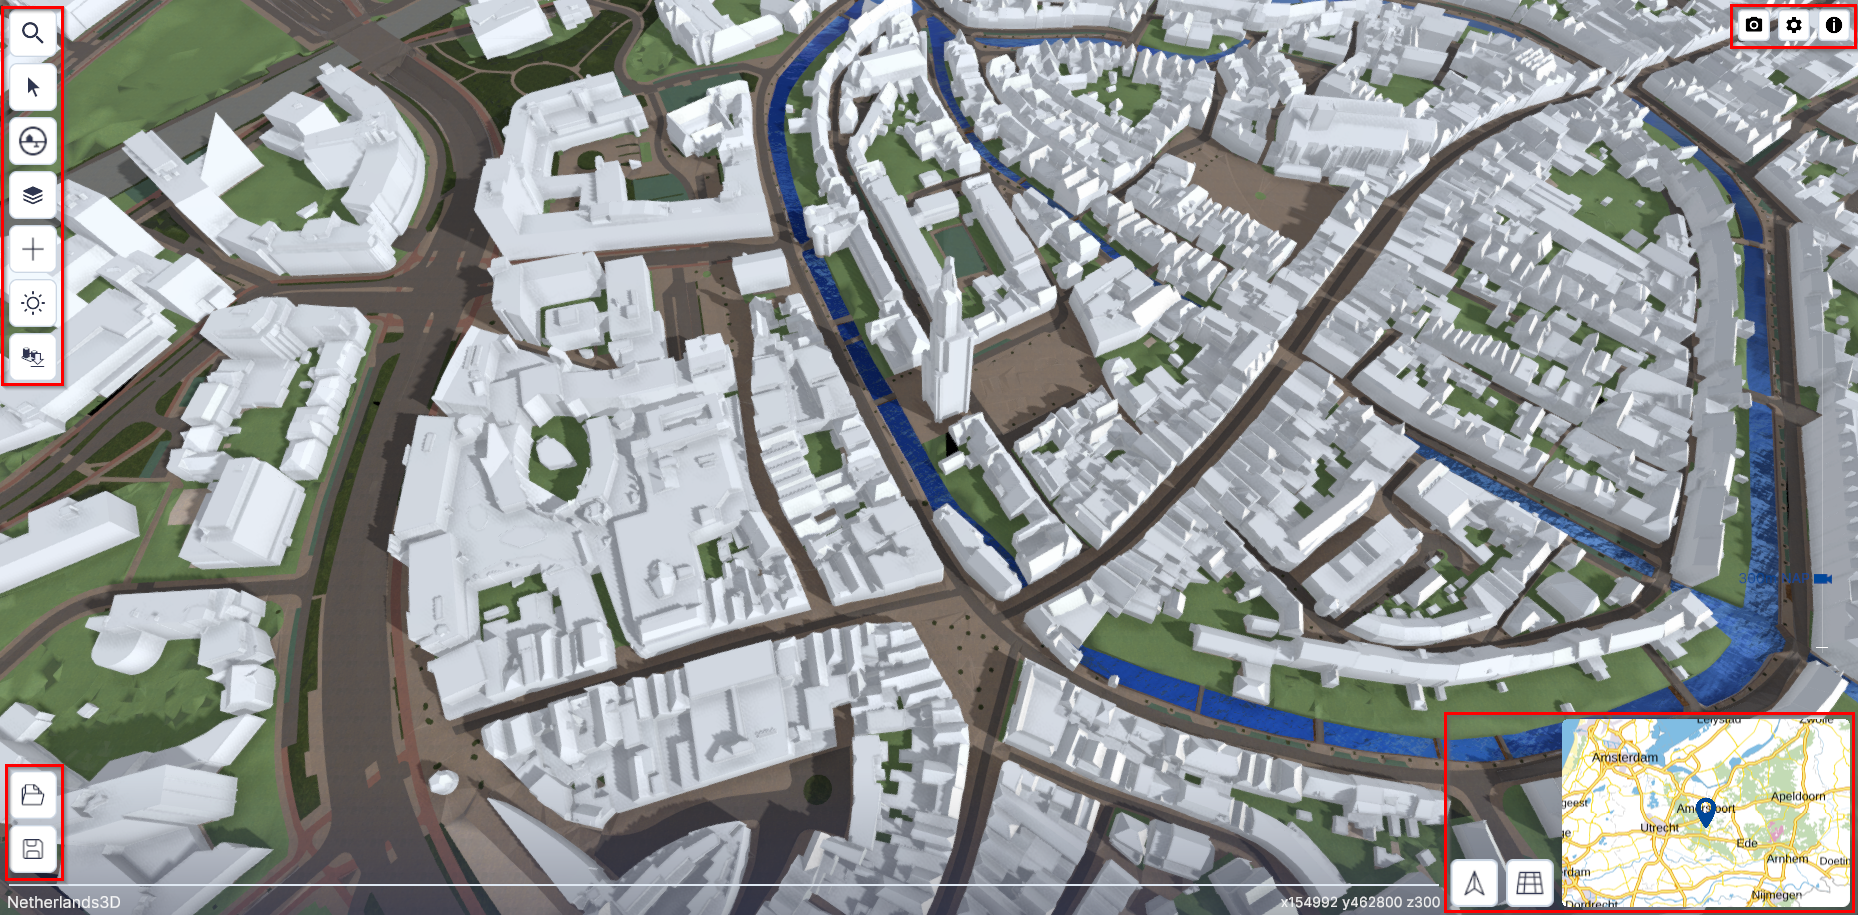
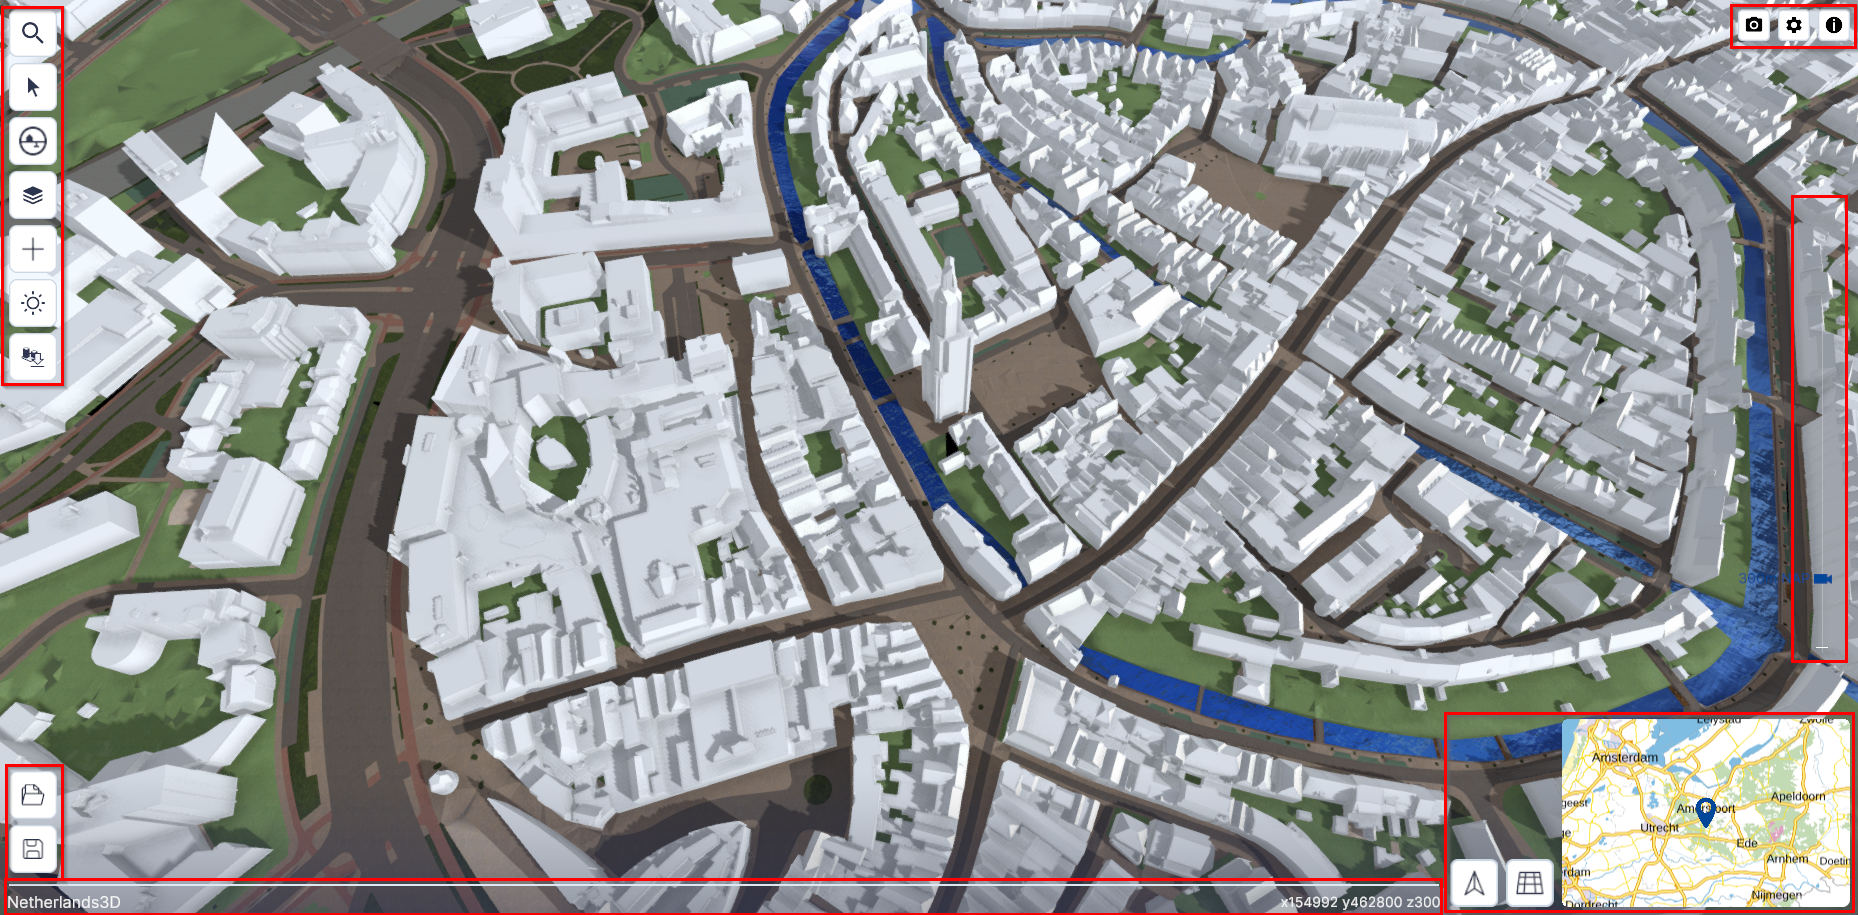
improvements

Changed region(s): [[0.0, 0.9486, 0.7804, 1.0], [0.9677, 0.7038, 0.9989, 0.7344], [0.9677, 0.2142, 0.9989, 0.2448]]

diff --git a/docs/docs/handleiding/3D-viewer.md b/docs/docs/handleiding/3D-viewer.md
@@ -22,7 +22,7 @@ Na het opstarten van de 3D viewer is het instellingen menu actief. In het instel
 
 ## Werkruimte
 
-![Building Blocks](../handleiding/imgs/3d-viewer.interface.png)
+![Werkruimte](../handleiding/imgs/3d-viewer.interface.png)
 _(Afbeelding) 3D-Viewer interface_
 
 De interface is opgedeeld in het 3D-scherm met daaromheen de knoppen van de interface gegroepeerd in vier menu's:
@@ -30,13 +30,14 @@ De interface is opgedeeld in het 3D-scherm met daaromheen de knoppen van de inte
 1. Werkbalk – linksboven  
 2. Project openen/opslaan - linksonder  
 3. Applicatiebalk – rechtsboven  
-4. Weergave en informatie - onder  
+4. Camerahoogte slider - rechts
+5. Informatie - onder 
 
 ---
 
 ### Werkbalk
 
-![Building Blocks](../handleiding/imgs/3d-viewer.menu.linksboven.png){ style="height:230px;width:50px"  align=left }
+![Building Blocks](../handleiding/imgs/3d-viewer.menu.linksboven.png){ style="width:50px"  align=left }
 
 Het hoofdmenu (linksboven) bevat de volgende functies (van boven naar onder);
 
@@ -47,10 +48,13 @@ Het hoofdmenu (linksboven) bevat de volgende functies (van boven naar onder);
 * [Toevoegen (link)](../toevoegen/)
 * [Zonnestand (Link)](../zonnestand/)
 * [Downloaden (Link)](../gebied-downloaden/)
+<br><br>
+---
+### Project openen/opslaan
 
-![Building Blocks](../handleiding/imgs/3d-viewer.menu.linksonder.png){ style="height:100px;width:50px" align=left }
+![Building Blocks](../handleiding/imgs/3d-viewer.menu.linksonder.png){ style="width:50px" align=left }
 
-Het Project opslaan/openen-menu bevindt zich in de linker onder hoek en bevat de volgende functies;
+Het Project opslaan/openen-menu bevindt zich in de linkeronderhoek en bevat de volgende functies;
 
 * [Project opslaan (Link)](/docs/handleiding/project-openen-opslaan/#project-opslaan)
 * [Project openen (Link)](/docs/handleiding/project-openen-opslaan/#project-openen)
@@ -80,7 +84,18 @@ De knop `Informatie` opent de Homepage in een apart browser-venster.
 
 ---
 
-### Weergave en informatie
+### Camerahoogteslider
+
+<div style="display: flex; align-items: flex-start; gap: 15px;" markdown>
+
+   ![Zoekmenu](../handleiding/imgs/3d-viewer.camerahoogte.rechts.png){ width="240px" align=left }
+
+Met de camerahoogteslider kan (door het blauwe cameraatje te slepen) de hoogte van de camera ingesteld worden.
+</div>
+
+---
+
+### Informatie
 
 ![Building Blocks](../handleiding/imgs/3d-viewer.menu.rechtsonder.png){ width="360px" }
 
@@ -122,7 +137,7 @@ In de onderbalk van de viewer staan (rechts) de coördinaten van de positie van 
 
 ---
 
-### Navigeren
+## Navigeren
 
 Het scherm toont de locatie die in het instellingenmenu is ingevoerd of – als er geen invoer is gedaan - de
 default-locatie (het kadastrale nulpunt van Nederland in het centrum van Amersfoort). Het beeld is in perspectief, onder een lichte hoek en vanaf een hoogte van 300 meter.
